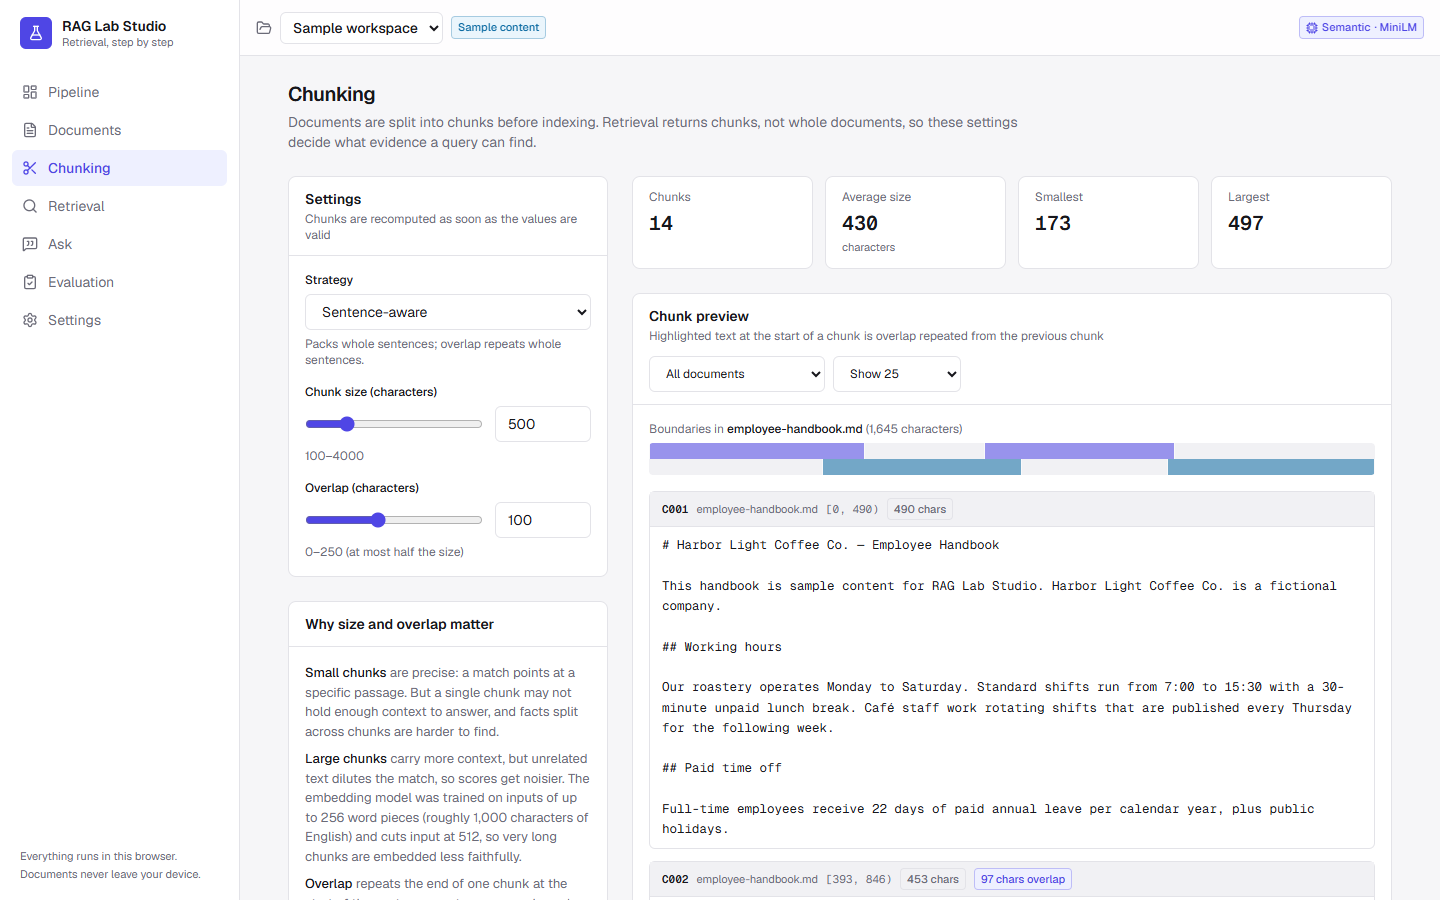
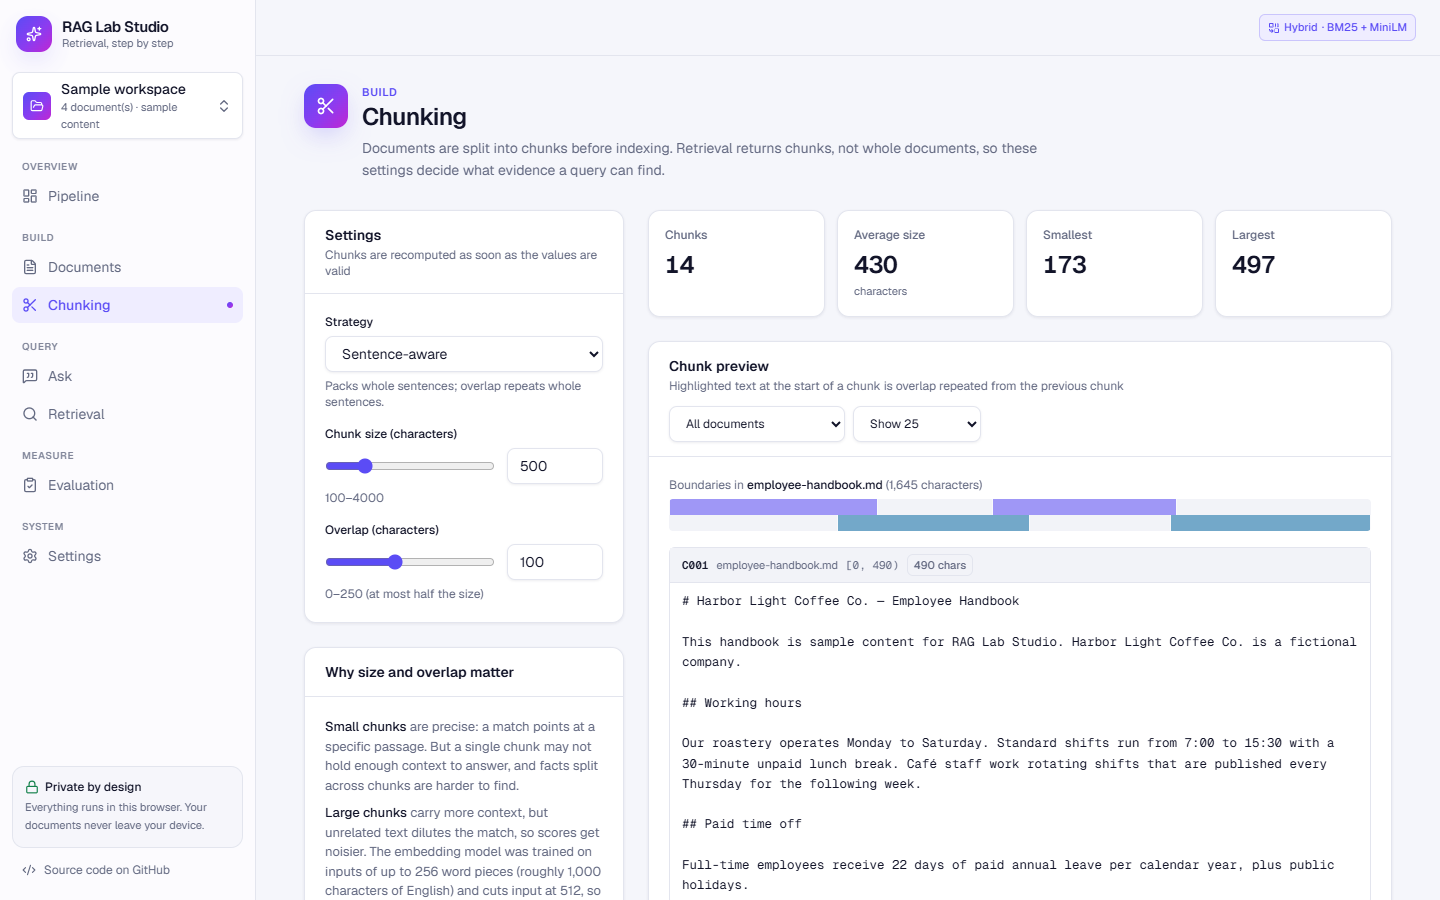
docs: document own-data workflow, hybrid search and new screenshots

diff --git a/README.md b/README.md
@@ -1,6 +1,6 @@
 # RAG Lab Studio
 
-An interactive lab that shows every stage of a Retrieval-Augmented Generation (RAG) pipeline, from raw file to evaluated answer. Upload documents, watch them get chunked, search them with BM25 or real sentence embeddings, ask questions that are answered with verifiable citations, and measure retrieval quality with your own test cases.
+An interactive lab that shows every stage of a Retrieval-Augmented Generation (RAG) pipeline, from raw file to evaluated answer. Upload your own PDFs, Word files and more, watch them get chunked, search them with BM25, real sentence embeddings or a hybrid of both, ask questions in a chat that answers with verifiable citations, and measure retrieval quality with your own test cases.
 
 Everything runs in the browser. There is no backend, no API key and no database; documents never leave your device.
 
@@ -12,34 +12,38 @@ Everything runs in the browser. There is no backend, no API key and no database;
 
 | Area | What you can do |
 | --- | --- |
-| **Documents** | Upload `.txt`, `.md` and text-based `.pdf` files (up to 10 MB each), inspect the extracted text, see per-file errors and warnings, remove documents. |
+| **Documents** | Upload PDF, Word (`.docx`), Markdown, plain text, HTML, CSV and JSON files (up to 10 MB each) by drag and drop, or paste text directly. Inspect the extracted text, see per-file errors and warnings, filter, remove one or all documents. |
 | **Chunking** | Switch between sentence-aware and fixed-size chunking, change size and overlap, and see chunk IDs, character offsets, sizes, overlap and a boundary map. Invalid settings are rejected, never applied. |
 | **Embeddings** | Optionally download `all-MiniLM-L6-v2` and compute real 384-dimensional embeddings in a Web Worker with Transformers.js. Download progress and errors are shown as they happen. |
-| **Retrieval** | Query the index with top-k, compare lexical (BM25) and semantic (cosine) results side by side, and inspect any chunk in the context of its document. |
-| **Ask** | Get an extractive answer: sentences quoted verbatim from retrieved chunks, each with a clickable citation. When the evidence is too weak, the app says so instead of guessing. |
+| **Retrieval** | Lexical (BM25), semantic (cosine) and **hybrid** (reciprocal rank fusion of both) search with top-k. "Compare all" runs the three side by side; hybrid results show each chunk's rank in both lists. |
+| **Ask** | A chat that keeps your question history. Answers are sentences quoted verbatim from retrieved chunks, with clickable citation chips and a copy button. Choose **Strict, Balanced or Lenient** evidence thresholds. Weak evidence produces "not enough evidence" instead of a guess. For your own data it suggests topics found in your documents. |
 | **Evaluation** | Write test cases (question, expected documents, evidence phrases, expected facts, or "should decline"), run them, and get precision@k, recall@k, MRR, pass rate and latency. Run history lets you compare settings. |
-| **Pipeline** | A live view of all eight stages with the status, timing and detail of what actually ran. |
-| **Workspaces** | A clearly labelled *Sample workspace* with fictional documents and test cases, and an empty *My workspace* for your own files. |
-| **Local data** | Everything is saved in IndexedDB. Reset the sample workspace or delete all local data from Settings. |
+| **Pipeline** | A home page with live status, timing and detail for all eight stages, plus a "get started" checklist based on what you have actually done. |
+| **Workspaces** | Create, rename and delete workspaces from the sidebar switcher or Settings. The fictional *Sample workspace* can be deleted and restored. **Export** any workspace as a JSON backup and **import** it on another device. |
+| **Local data** | Everything is saved in IndexedDB, with a storage usage estimate. Delete all local data from Settings. |
 
 ## Screenshots
 
-These are real screenshots of the production build running on the sample workspace in Chrome.
+These are real screenshots of the production build in Chrome, on the sample workspace and on a workspace with test files (a Word brief, a CSV, an HTML page, a PDF and pasted notes).
 
-| Pipeline | Chunking |
+| Pipeline | Chat over your own files |
 | --- | --- |
-| ![Pipeline view](docs/screenshots/pipeline.png) | ![Chunking playground](docs/screenshots/chunking.png) |
-| **Ask with citations** | **Citation inspector** |
-| ![Extractive answer](docs/screenshots/ask.png) | ![Chunk inspector](docs/screenshots/citation.png) |
-| **Evaluation** | **Settings** |
-| ![Evaluation dashboard](docs/screenshots/evaluation.png) | ![Embedding model settings](docs/screenshots/settings.png) |
+| ![Pipeline view](docs/screenshots/pipeline.png) | ![Chat with cited answers over uploaded files](docs/screenshots/ask-own-data.png) |
+| **Documents** | **Citation inspector** |
+| ![Documents page with upload and extracted text](docs/screenshots/documents.png) | ![Chunk inspector](docs/screenshots/citation.png) |
+| **Chunking** | **Evaluation** |
+| ![Chunking playground](docs/screenshots/chunking.png) | ![Evaluation dashboard](docs/screenshots/evaluation.png) |
+| **Settings and workspaces** | **Dark mode** |
+| ![Settings with workspaces and the AI model](docs/screenshots/settings.png) | ![Ask page in dark mode](docs/screenshots/dark-mode.png) |
+
+<img src="docs/screenshots/mobile.png" alt="Home page on a phone" width="300" />
 
 ## Technology
 
 - **Next.js 16** (App Router, all routes statically prerendered) with **React 19** and **TypeScript**
 - **Tailwind CSS 4** with light and dark themes from CSS variables; **lucide-react** icons
 - **Transformers.js 4** (`@huggingface/transformers`) running `Xenova/all-MiniLM-L6-v2` on ONNX Runtime WebAssembly in a Web Worker
-- **pdf.js** (`pdfjs-dist` 6) for PDF text extraction, in its own worker
+- **pdf.js** (`pdfjs-dist` 6) for PDF text extraction, in its own worker, and **mammoth** for Word files (loaded only when needed)
 - **zustand** for state and **idb-keyval** for IndexedDB persistence
 - **Vitest**, **React Testing Library** and **fake-indexeddb** for tests; ESLint with the Next.js config
 
@@ -84,7 +88,7 @@ flowchart LR
 ## How the RAG pipeline works here
 
 1. **Ingestion.** The file type is checked by extension and MIME type and the size is limited to 10 MB. Nothing is uploaded anywhere.
-2. **Extraction.** Text files are decoded as UTF-8 (invalid bytes produce a warning; binary data is rejected). PDFs are parsed with pdf.js. Pages without a text layer produce a warning, and a PDF with no text at all is rejected: OCR is not supported.
+2. **Extraction.** Text files are decoded as UTF-8 (invalid bytes produce a warning; binary data is rejected). PDFs are parsed with pdf.js: pages without a text layer produce a warning, and a PDF with no text at all is rejected, because OCR is not supported. Word files are read with mammoth (old `.doc` files are rejected with a hint to save as `.docx`). HTML keeps only visible text; scripts, styles and comments are removed and nothing is rendered or executed. CSV rows become `Row 3. Name: Ali; City: Lahore.` paragraphs so each row is searchable on its own, and JSON becomes `path.to.value: value` lines.
 3. **Chunking.** Text is split into chunks with recorded `[start, end)` offsets into the document.
 4. **Indexing.** A BM25 index is always built. If the embedding model is loaded, every chunk is also embedded.
 5. **Retrieval.** The query is scored against every chunk and the top-k are returned.
@@ -99,16 +103,16 @@ flowchart LR
 
 Size must be 100–4,000 characters and overlap 0 to size/2. These limits guarantee every step moves forward, so chunking can never loop. Small chunks give precise matches but may lack context; large chunks carry context but dilute the match. Overlap ensures a sentence near a boundary is fully inside at least one chunk.
 
-### Retrieval: lexical vs semantic
+### Retrieval: lexical, semantic and hybrid
 
-| | Lexical (BM25) | Semantic (embeddings) |
-| --- | --- | --- |
-| Matches | Shared words (after lowercasing, stopword removal and light suffix stripping) | Meaning, via a 384-dimensional sentence embedding |
-| Score | `Σ idf(t) · tf·(k1+1) / (tf + k1·(1 − b + b·len/avglen))` with k1 = 1.2, b = 0.75. Unbounded; only comparable within one query. | Cosine similarity `a·b / (‖a‖‖b‖)` in [−1, 1]. Results below a configurable minimum (default 0.2) are dropped. |
-| Strength | Exact terms, names, numbers; no download | Paraphrases ("money back" → "refund") |
-| Weakness | Fails when the question uses different words | Needs a ~23 MB model download; long chunks are embedded less faithfully |
+| | Lexical (BM25) | Semantic (embeddings) | Hybrid |
+| --- | --- | --- | --- |
+| Matches | Shared words (after lowercasing, stopword removal and light suffix stripping) | Meaning, via a 384-dimensional sentence embedding | Either, rewarding chunks found by both |
+| Score | `Σ idf(t) · tf·(k1+1) / (tf + k1·(1 − b + b·len/avglen))` with k1 = 1.2, b = 0.75. Unbounded; only comparable within one query. | Cosine similarity `a·b / (‖a‖‖b‖)` in [−1, 1]. Results below a configurable minimum (default 0.2) are dropped. | Reciprocal Rank Fusion: `Σ 1 / (60 + rank)` over the top 50 of each ranker. Only the order is meaningful. |
+| Strength | Exact terms, names, numbers; no download | Paraphrases ("money back" → "refund") | Keeps exact-term precision and adds paraphrase recall |
+| Weakness | Fails when the question uses different words | Needs a ~23 MB model download; long chunks are embedded less faithfully | Needs the model too |
 
-Neither score is a probability or a calibrated confidence, and the UI never presents it as one. Lexical matching is always labelled "Lexical · BM25" and is never called semantic search.
+No score is a probability or a calibrated confidence, and the UI never presents one as such. Lexical matching is always labelled "Lexical · BM25" and is never called semantic search. Loading the model switches Ask and Evaluation to hybrid; you can change it in Settings.
 
 The embedding model is `Xenova/all-MiniLM-L6-v2` (8-bit quantized ONNX, 22,972,370 bytes) with mean pooling and L2 normalisation. Its tokenizer cuts input at 512 word pieces, and the model was trained on inputs of up to 256, so very long chunks are represented less faithfully. Vectors are cached in IndexedDB, keyed by model and text hash, so unchanged chunks are not re-embedded.
 
@@ -116,13 +120,14 @@ The embedding model is `Xenova/all-MiniLM-L6-v2` (8-bit quantized ONNX, 22,972,3
 
 No language model writes text. The answerer is **extractive**:
 
-1. Every sentence of every retrieved chunk is a candidate.
-2. **Evidence score** = the IDF-weighted share of the question's content words that appear in the sentence. Rare, informative words count more, so "Who founded the company?" is not answered by a sentence that only mentions "company". In semantic mode the score is `0.5 · coverage + 0.5 · cosine(question, sentence)`.
-3. If the best sentence scores below 0.5, the result is **insufficient evidence** and the reason is shown.
-4. Otherwise up to three sentences within 75% of the best score are quoted, verbatim.
-5. Each sentence links to its chunk. Citations are only ever created from retrieved chunks, and the inspector highlights the exact sentence inside the chunk and its document.
+1. Every sentence of every retrieved chunk is a candidate. Headings and fragments under four words are never quoted.
+2. **Evidence score** = the IDF-weighted share of the question's content words covered by the sentence. A word in the sentence counts fully; a word that only appears elsewhere in the same chunk counts half, so "the budget" sentence of the Apollo brief still counts as being about Apollo. Rare, informative words weigh more, so "Who founded the company?" is not answered by a sentence that only mentions "company". With embeddings (semantic or hybrid) the score is `0.5 · coverage + 0.5 · cosine(question, sentence)`.
+3. **Focus first.** The question word that appears in the fewest sentences (e.g. "budget" in "What is the budget of Project Apollo?") is its focus; sentences containing it are ranked first. Without this, a title that repeats the topic words would outrank the sentence that actually answers.
+4. If no sentence reaches the **strictness threshold** (Strict 0.65, Balanced 0.5, Lenient 0.35), the result is **insufficient evidence** and the reason is shown.
+5. Otherwise up to three sentences within 75% of the best score are quoted, verbatim.
+6. Each sentence links to its chunk. Citations are only ever created from retrieved chunks, and the inspector highlights the exact sentence inside the chunk and its document.
 
-These thresholds are heuristics chosen for this demo, not tuned constants. The design deliberately prefers declining over answering wrongly.
+These thresholds are heuristics chosen for this demo, not tuned constants. The design deliberately prefers declining over answering wrongly; Lenient answers more questions and is labelled as needing a citation check.
 
 ### Evaluation metrics
 
@@ -167,7 +172,16 @@ Open http://localhost:3000. The sample workspace loads automatically.
 | `npm start` | Serve the production build |
 | `npm run check` | Typecheck, lint, test and build in one go |
 
-The test suite covers chunking edge cases, tokenisation, BM25 and cosine ranking, retrieval errors, extractive answering and citation integrity, every metric, evaluation validity rules, IndexedDB persistence, and PDF extraction with the real pdf.js on generated PDFs. Interface tests drive the real pages: upload, chunk settings, search, ask, citation inspection, evaluation runs, model loading (with a deterministic fake embedder) and clearing local data.
+The test suite (127 tests) covers chunking edge cases, tokenisation, BM25, cosine and hybrid (RRF) ranking, retrieval errors, extractive answering (focus terms, strictness, headings) and citation integrity, every metric, evaluation validity rules, IndexedDB persistence, workspace management and backups, and real extraction of generated PDF and Word files plus HTML, CSV and JSON. Interface tests drive the real pages: upload, paste, workspace switching, chunk settings, search, chat, citation inspection, evaluation runs, model loading and hybrid search (with a deterministic fake embedder) and clearing local data.
+
+## Using your own data
+
+1. In the sidebar workspace switcher choose **New workspace** (or delete the sample workspace in **Settings → Workspaces**; it can be restored).
+2. On **Documents**, drop your files or paste text. Check the extracted text with **View**.
+3. Optional: in **Settings**, load the AI model. Ask and Evaluation then use hybrid search.
+4. On **Ask**, start from the topic suggestions or type a question. If the app declines too often, try the **Lenient** setting and check the citations.
+5. On **Evaluation**, add a few test questions with the phrase that should be found, then run them after changing chunking or retrieval settings.
+6. **Export** the workspace in Settings to keep a backup; data otherwise lives only in this browser.
 
 No environment variables are required.
 
@@ -188,7 +202,8 @@ With the Vercel CLI: `npx vercel` for a preview, `npx vercel --prod` for product
 - **Browser requirements:** a modern browser with WebAssembly and Web Workers (recent Chrome, Edge, Firefox or Safari). Inference uses memory on top of the download and can fail on low-memory phones; the app reports the error.
 - **PDFs:** text-based PDFs only. Scanned PDFs (images) need OCR, which is not included. Layout such as columns and tables is flattened into plain text.
 - **Scale:** every chunk is scored for each query (no approximate nearest-neighbour index). This is fine for a few hundred chunks but not for large collections.
-- **Answers:** extractive answers quote sentences; they cannot combine facts or rephrase. Paraphrased questions are often declined.
+- **Answers:** extractive answers quote sentences; they cannot combine facts or rephrase. Questions that use different words from the document (e.g. "cost" when a CSV column says "price") are often declined, even when retrieval finds the right chunk.
+- **Word and HTML:** text only. Images, tables' layout and tracked changes are not preserved; older `.doc` files are not supported.
 
 ## Data and privacy
 
@@ -201,13 +216,12 @@ With the Vercel CLI: `npx vercel` for a preview, `npx vercel --prod` for product
 ## Future improvements
 
 - A browser-based generative answerer (e.g. a small instruction-tuned model on WebGPU) behind the existing `AnswerGenerator` interface, still citing retrieved chunks
-- Hybrid retrieval (BM25 + vectors with reciprocal rank fusion) and a reranker
+- A cross-encoder reranker on top of hybrid retrieval
 - OCR for scanned PDFs, and DOCX/HTML import
-- Import and export of workspaces and test suites as JSON
 - An approximate nearest-neighbour index for larger collections
 
 ## License
 
-MIT, see [LICENSE](LICENSE). Third-party components keep their own licenses: Transformers.js and pdf.js are Apache-2.0, ONNX Runtime is MIT, and the `all-MiniLM-L6-v2` model is Apache-2.0.
+MIT, see [LICENSE](LICENSE). Third-party components keep their own licenses: Transformers.js and pdf.js are Apache-2.0, ONNX Runtime is MIT, mammoth is BSD-2-Clause, and the `all-MiniLM-L6-v2` model is Apache-2.0.
 
 The sample documents describe a fictional company, "Harbor Light Coffee Co.", written for this project.
